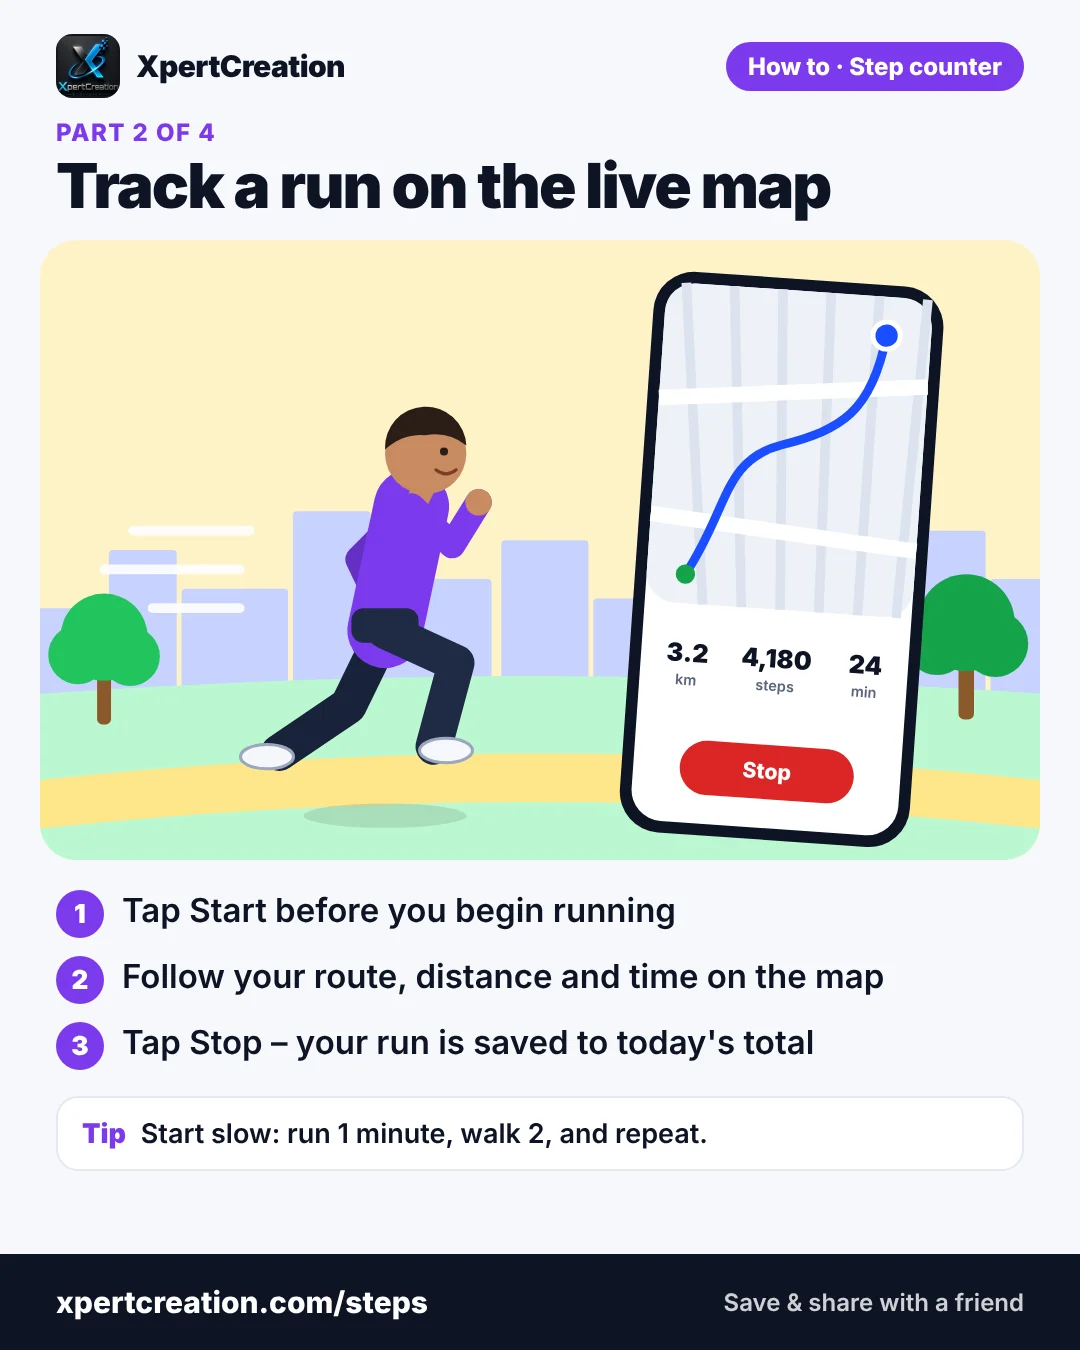
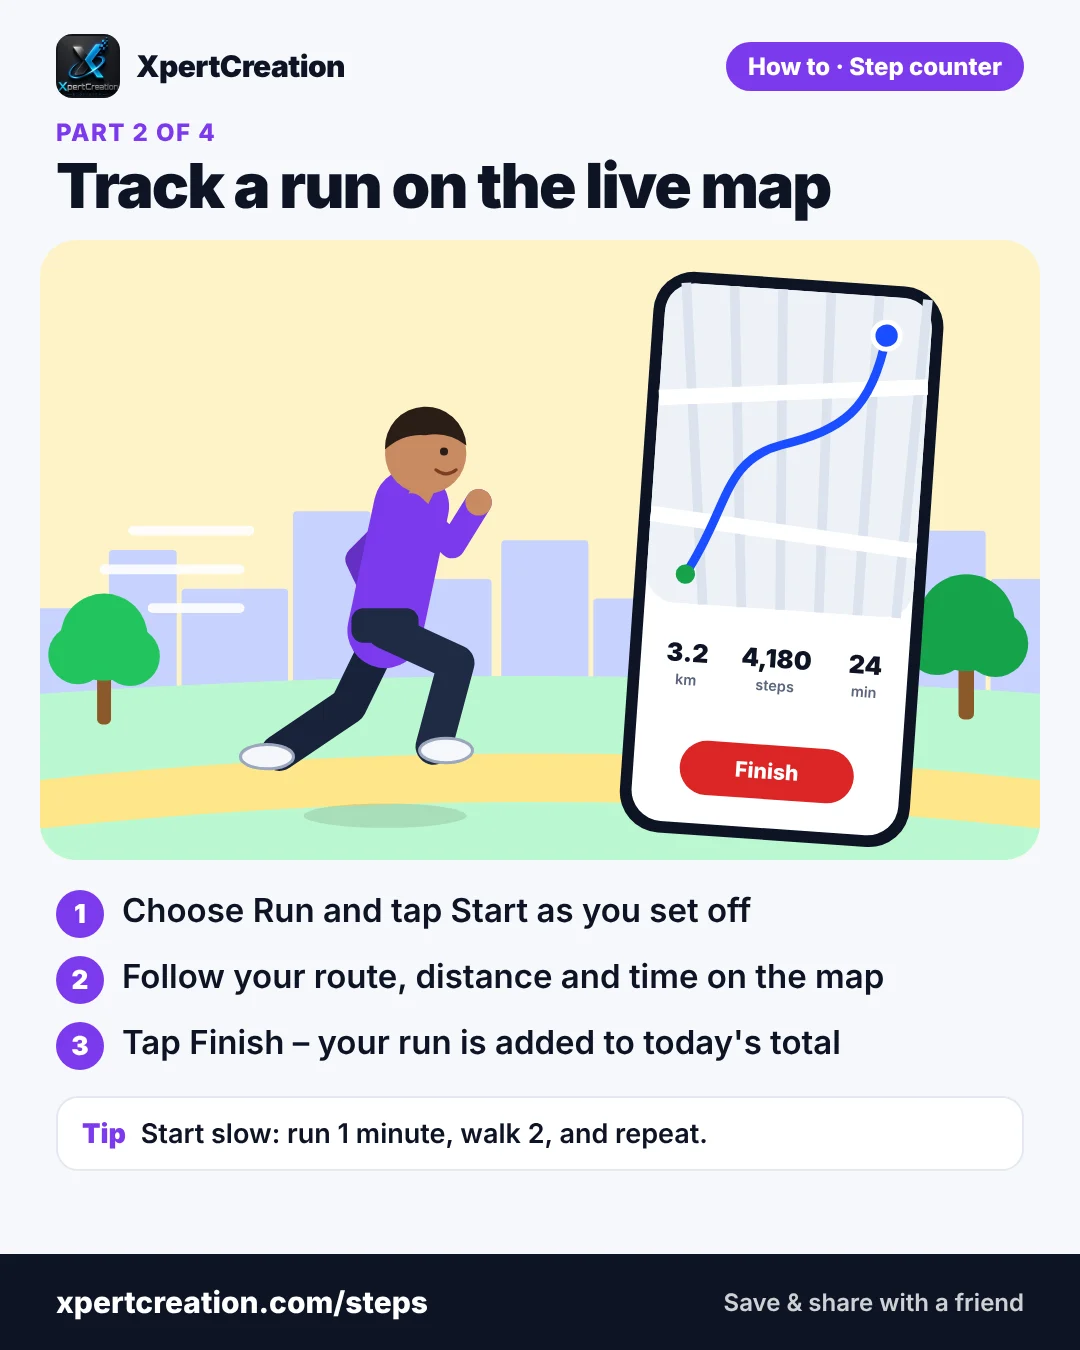
User guide: 17 new pages, paid items and blue tick updated, step counter posts corrected

Changed region(s): [[0.1833, 0.7467, 0.7944, 0.8089], [0.0917, 0.6533, 0.7028, 0.6844], [0.6722, 0.56, 0.7333, 0.5911]]

diff --git a/autopost/guides.py b/autopost/guides.py
@@ -14,12 +14,12 @@ GUIDES = [
  {
   "key": "steps-1-walk",
   "module": "Step counter",
-  "text": "🚶 How to use the Xpert Step Counter – Part 1: your first walk\n\n1) Open xpertcreation.com/steps or the Xpert app → Step counter.\n2) Tap Start. Allow location (for the map) and motion (for steps) when your phone asks.\n3) Put the phone in your pocket and walk. Steps, distance and your route appear live, and the map turns with you.\n4) Tap Stop when you finish. Your next walk starts again from zero, and today's total keeps adding up.\n\nIt's free and works on any phone. A 20-minute walk a day is one of the best things you can do for your health.\n\nTry it now: https://xpertcreation.com/steps\n\n#XpertCreation #StepCounter #Walking #HealthyLiving #HowTo"
+  "text": "🚶 How to use the Xpert Step Counter – Part 1: your first walk\n\n1) Open xpertcreation.com/steps or the Xpert app → Step counter.\n2) Tap Start. Allow location (for the map) and motion (for steps) when your phone asks.\n3) Walk with the page open – the screen stays on. Steps, distance and your route appear live, and the map turns with you.\n4) Tap Finish at the end. Your next walk starts again from zero, and today's total keeps adding up.\n\nTip: phones pause GPS and the step sensor when the screen is off or you switch apps, so keep the step counter open while you walk.\n\nIt's free and works on any phone. A 20-minute walk a day is one of the best things you can do for your health.\n\nTry it now: https://xpertcreation.com/steps\n\n#XpertCreation #StepCounter #Walking #HealthyLiving #HowTo"
  },
  {
   "key": "steps-2-run",
   "module": "Step counter",
-  "text": "🏃 How to use the Xpert Step Counter – Part 2: going for a run\n\n1) Open Step counter and tap Start just before you set off.\n2) The map follows you with your direction arrow and draws your route as you go. Tap the compass for north-up, or the target to follow yourself again.\n3) Watch your distance, steps and time while you run.\n4) Tap Stop at the end – the run is added to today's total and your hour-by-hour chart.\n\nTip: start slow, run for 1 minute and walk for 2, and repeat. In a few weeks you can run much longer.\n\nhttps://xpertcreation.com/steps\n\n#XpertCreation #Running #StepCounter #Fitness #HowTo"
+  "text": "🏃 How to use the Xpert Step Counter – Part 2: going for a run\n\n1) Open Step counter, choose 🏃 Run and tap ▶ Start just before you set off.\n2) The map follows you with your direction arrow and draws your route as you go. Tap the compass for north-up, or the target to follow yourself again.\n3) Watch your distance, steps and time while you run.\n4) Tap ■ Finish at the end (❚❚ Pause if you need a break) – the run is added to today's total and your hour-by-hour chart.\n\nTip: start slow, run for 1 minute and walk for 2, and repeat. In a few weeks you can run much longer.\n\nhttps://xpertcreation.com/steps\n\n#XpertCreation #Running #StepCounter #Fitness #HowTo"
  },
  {
   "key": "steps-3-goal",
